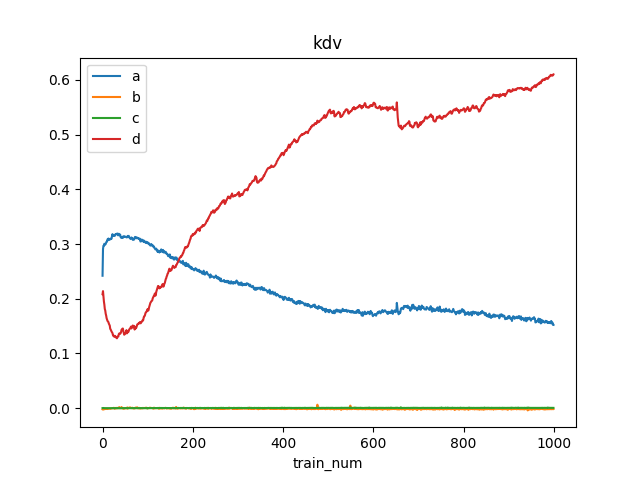
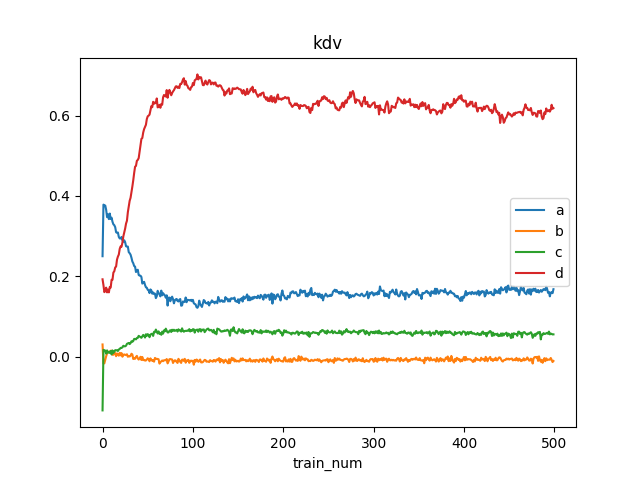
refactor

diff --git a/Execution/Model.py b/Execution/Model.py
@@ -5,7 +5,7 @@ from tensorflow import keras
 from Execution import NormalizedData
 
 loss_tracker = keras.metrics.Mean(name="loss")
-mae_metric = keras.metrics.MeanAbsoluteError(name="mae")
+mae_metric = keras.metrics.RootMeanSquaredError(name="mae")
 
 
 class PPINs(keras.Model):
@@ -29,10 +29,10 @@ class PPINs(keras.Model):
                 tf.square(PPINs.f_pred(y_pred, x, self.a, self.b, self.c, self.d)))
             loss = tf.cond(loss_1 < 0.0155, lambda: loss_2, lambda: loss_1)"""
             loss = tf.reduce_mean(tf.square(y - y_pred)) + tf.reduce_mean(tf.square(
-                self.kdv_pred_for_normalize(y_pred, x, self.a, self.b, self.c, self.d, self.normalized_data.u_max,
-                                          self.normalized_data.u_min, self.normalized_data.t_max,
-                                          self.normalized_data.t_min, self.normalized_data.x_max,
-                                          self.normalized_data.x_min))) + tf.reduce_mean(
+                self.all_f(y_pred, x, self.a, self.b, self.c, self.d, self.normalized_data.u_max,
+                         self.normalized_data.u_min, self.normalized_data.t_max,
+                         self.normalized_data.t_min, self.normalized_data.x_max,
+                         self.normalized_data.x_min))) + tf.reduce_mean(
                 tf.square(y_pred[0, :] - y[0, :])) \
                    + tf.reduce_mean(tf.square(y_pred[:, 0] - y[:, 0])) + tf.reduce_mean(
                 tf.square(y_pred[:, -1] - y[:, -1]))
@@ -45,7 +45,7 @@ class PPINs(keras.Model):
                 'd': self.d}
 
     @staticmethod
-    def f_pred_for_normalize(y_pred, x, a, b, c, d, u_max, u_min, t_max, t_min, x_max, x_min):
+    def all_f(y_pred, x, a, b, c, d, u_max, u_min, t_max, t_min, x_max, x_min):
         u = y_pred
         u_x, u_t = tf.gradients(y_pred, x[0]), tf.gradients(y_pred, x[1])
         u_xx = tf.gradients(u_x, x[0])
@@ -56,7 +56,7 @@ class PPINs(keras.Model):
             x_max - x_min) * u_x
 
     @staticmethod
-    def kdv_pred_for_normalize(y_pred, x, a, b, c, d, u_max, u_min, t_max, t_min, x_max, x_min):
+    def kdv(y_pred, x, a, b, c, d, u_max, u_min, t_max, t_min, x_max, x_min):
         u = y_pred
         u_x, u_t = tf.gradients(y_pred, x[0]), tf.gradients(y_pred, x[1])
         u_xx = tf.gradients(u_x, x[0])
@@ -66,17 +66,17 @@ class PPINs(keras.Model):
             x_max - x_min) * u_x
 
     @staticmethod
-    def f_pred(y_pred, x, a, b, c, d):
+    def advection_diffusion(y_pred, x, a, b, c, d, u_max, u_min, t_max, t_min, x_max, x_min):
         u = y_pred
         u_x, u_t = tf.gradients(y_pred, x[0]), tf.gradients(y_pred, x[1])
         u_xx = tf.gradients(u_x, x[0])
-        u_xxx = tf.gradients(u_xx, x[0])
-        return u_t + a * u_x + b * u_xx + c * u_xxx + d * u * u_x
+        return tf.divide(u_t, t_max - t_min) + a * tf.divide(u_x, x_max - x_min) + b * tf.divide(u_xx,
+                                                                                                 (x_max - x_min) ** 2)
 
     @staticmethod
-    def kdv_format(y_pred, x, c, d):
+    def burgers(y_pred, x, a, b, c, d, u_max, u_min, t_max, t_min, x_max, x_min):
         u = y_pred
         u_x, u_t = tf.gradients(y_pred, x[0]), tf.gradients(y_pred, x[1])
         u_xx = tf.gradients(u_x, x[0])
-        u_xxx = tf.gradients(u_xx, x[0])
-        return u_t + c * u_xxx + d * u * u_x
+        return tf.divide(u_t, t_max - t_min) + b * tf.divide(u_xx, (x_max - x_min) ** 2) + d * u_x * tf.divide(
+            u * (u_max - u_min) + u_min, x_max - x_min)

diff --git a/Execution/PhysicsInformedNN.py b/Execution/PhysicsInformedNN.py
@@ -7,9 +7,16 @@ from tensorflow.keras.layers import concatenate, Dense, Input
 import tensorflow as tf
 
 import matplotlib.animation as animation
+from tensorflow.python.keras.callbacks import EarlyStopping
 
 from Execution.NormalizedData import NormalizedData
 from Execution.Model import PPINs
+
+early_stopping = EarlyStopping(
+    monitor='val_loss',
+    min_delta=0.0,
+    patience=2,
+)
 
 
 class PhysicsInformedNN:
@@ -43,7 +50,7 @@ class PhysicsInformedNN:
 
     def train(self, epochs=100):
         input_data = self.__get_input_data()
-        self.history = self.model.fit(input_data, self.teacher_data, epochs=epochs)
+        self.history = self.model.fit(input_data, self.teacher_data, epochs=epochs, callbacks=[early_stopping])
 
     def plot_coefficient(self):
         plt.plot(self.history.history['a'], label='a')

diff --git a/main.py b/main.py
@@ -17,7 +17,7 @@ def pred_advection(train_num=100):
     advection.save_plot_coeffisient('advection', path)
 
 
-def pred_kdv(train_num=100):
+def pred_kdv(train_num=500):
     teacher_data, data = GetRungekuttaData.get_kdv()
     kdv = PhysicsInformedNN(x_array, t_array, teacher_data)
     kdv.train(train_num)
@@ -47,7 +47,7 @@ def pred_advection_diffusion(train_num=100):
     advection_diffusion.save_plot_coeffisient('advection_diffusion', path)
 
 
-def pred_epic_data(train_num=1000):
+def pred_epic_data(train_num=100):
     path = './EPIC/Ion_Density_y'
     epic_data = EPICData(path)
     epic = PhysicsInformedNN(epic_data.x_array, epic_data.t_array, epic_data.teacher_data)
@@ -59,4 +59,4 @@ def pred_epic_data(train_num=1000):
 
 
 if __name__ == '__main__':
-    pred_epic_data(100)
+    pred_burgers(500)
